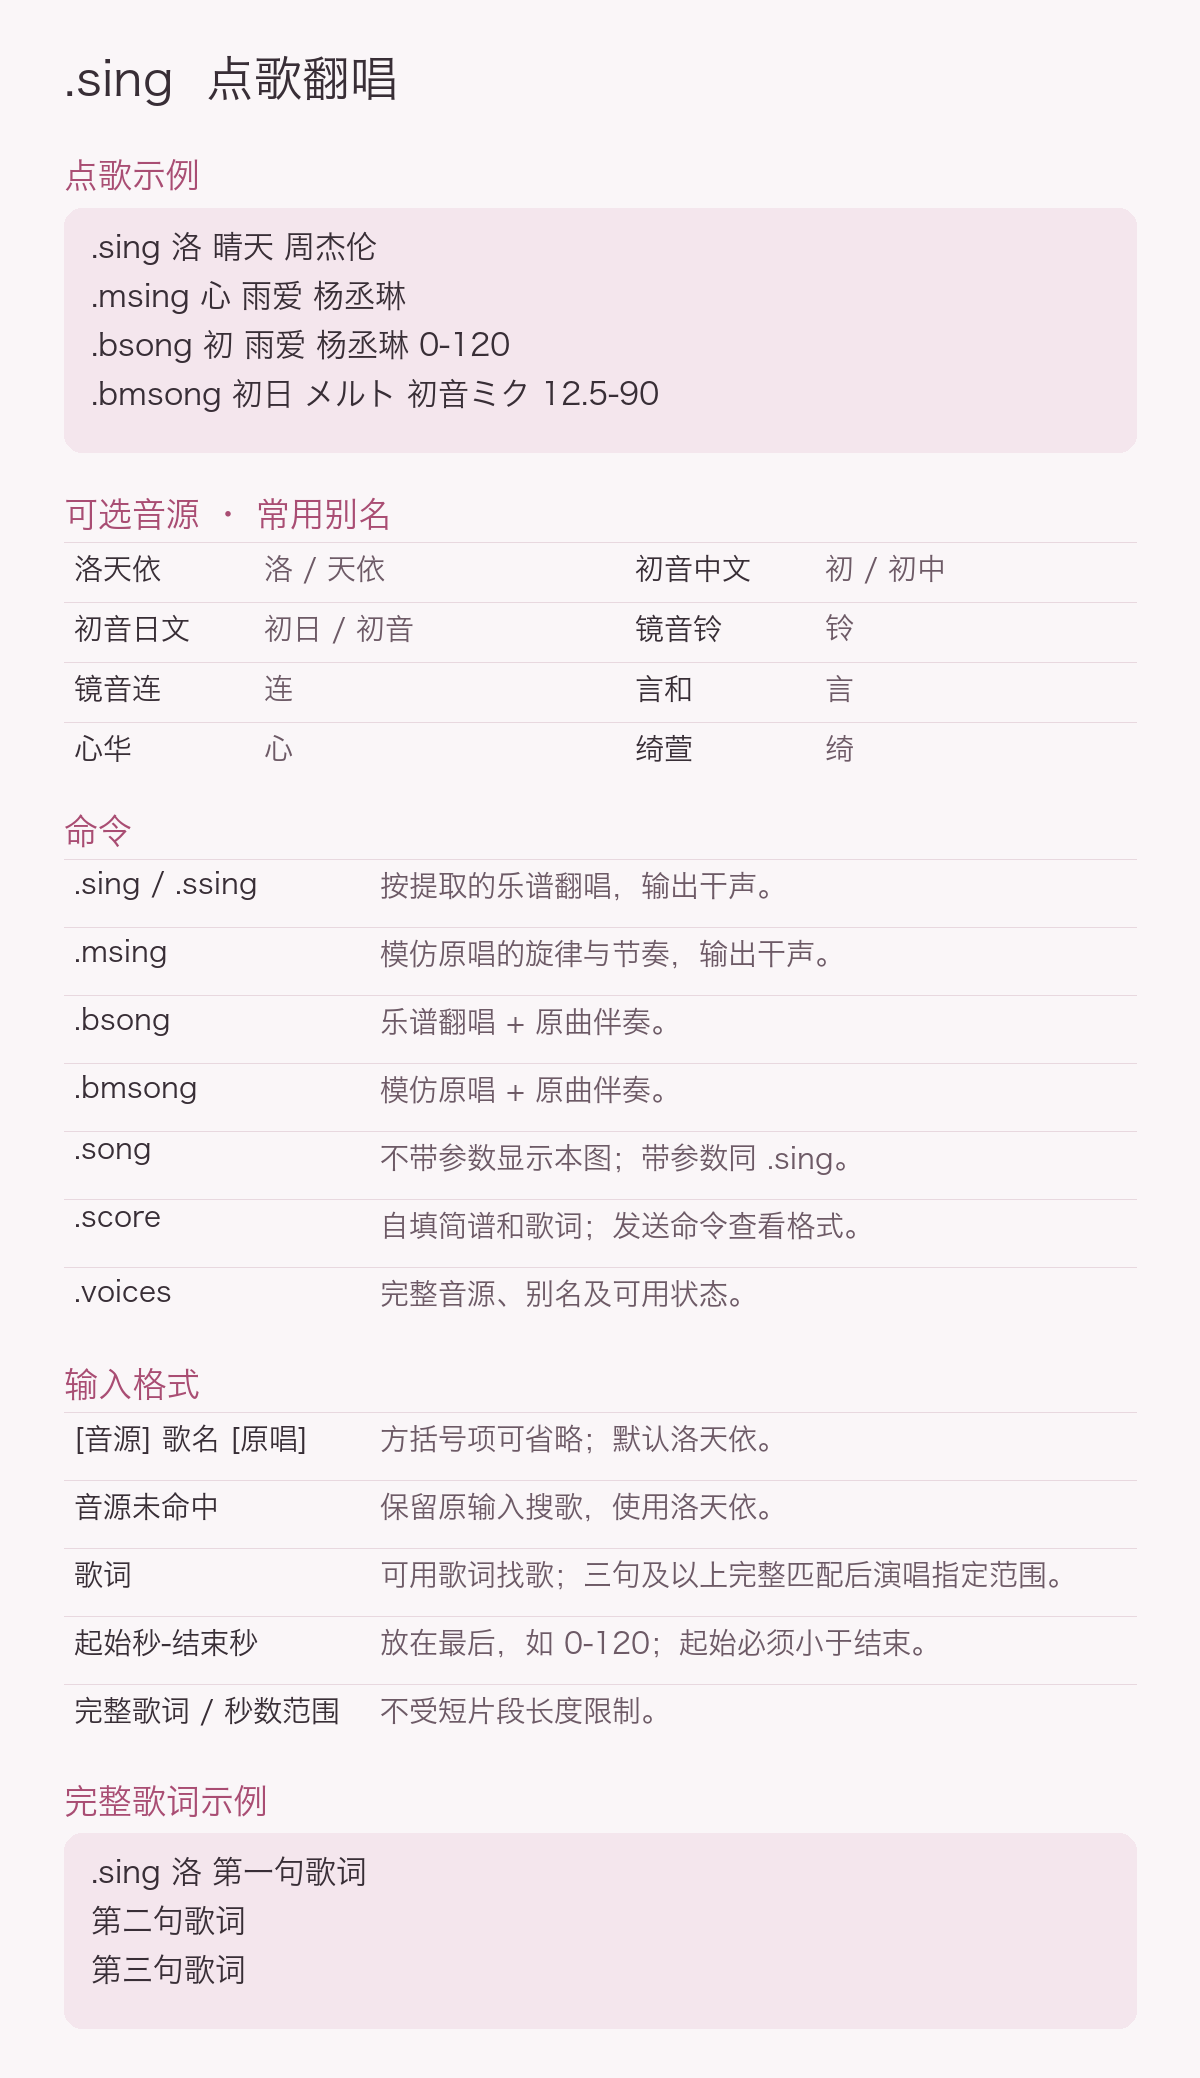
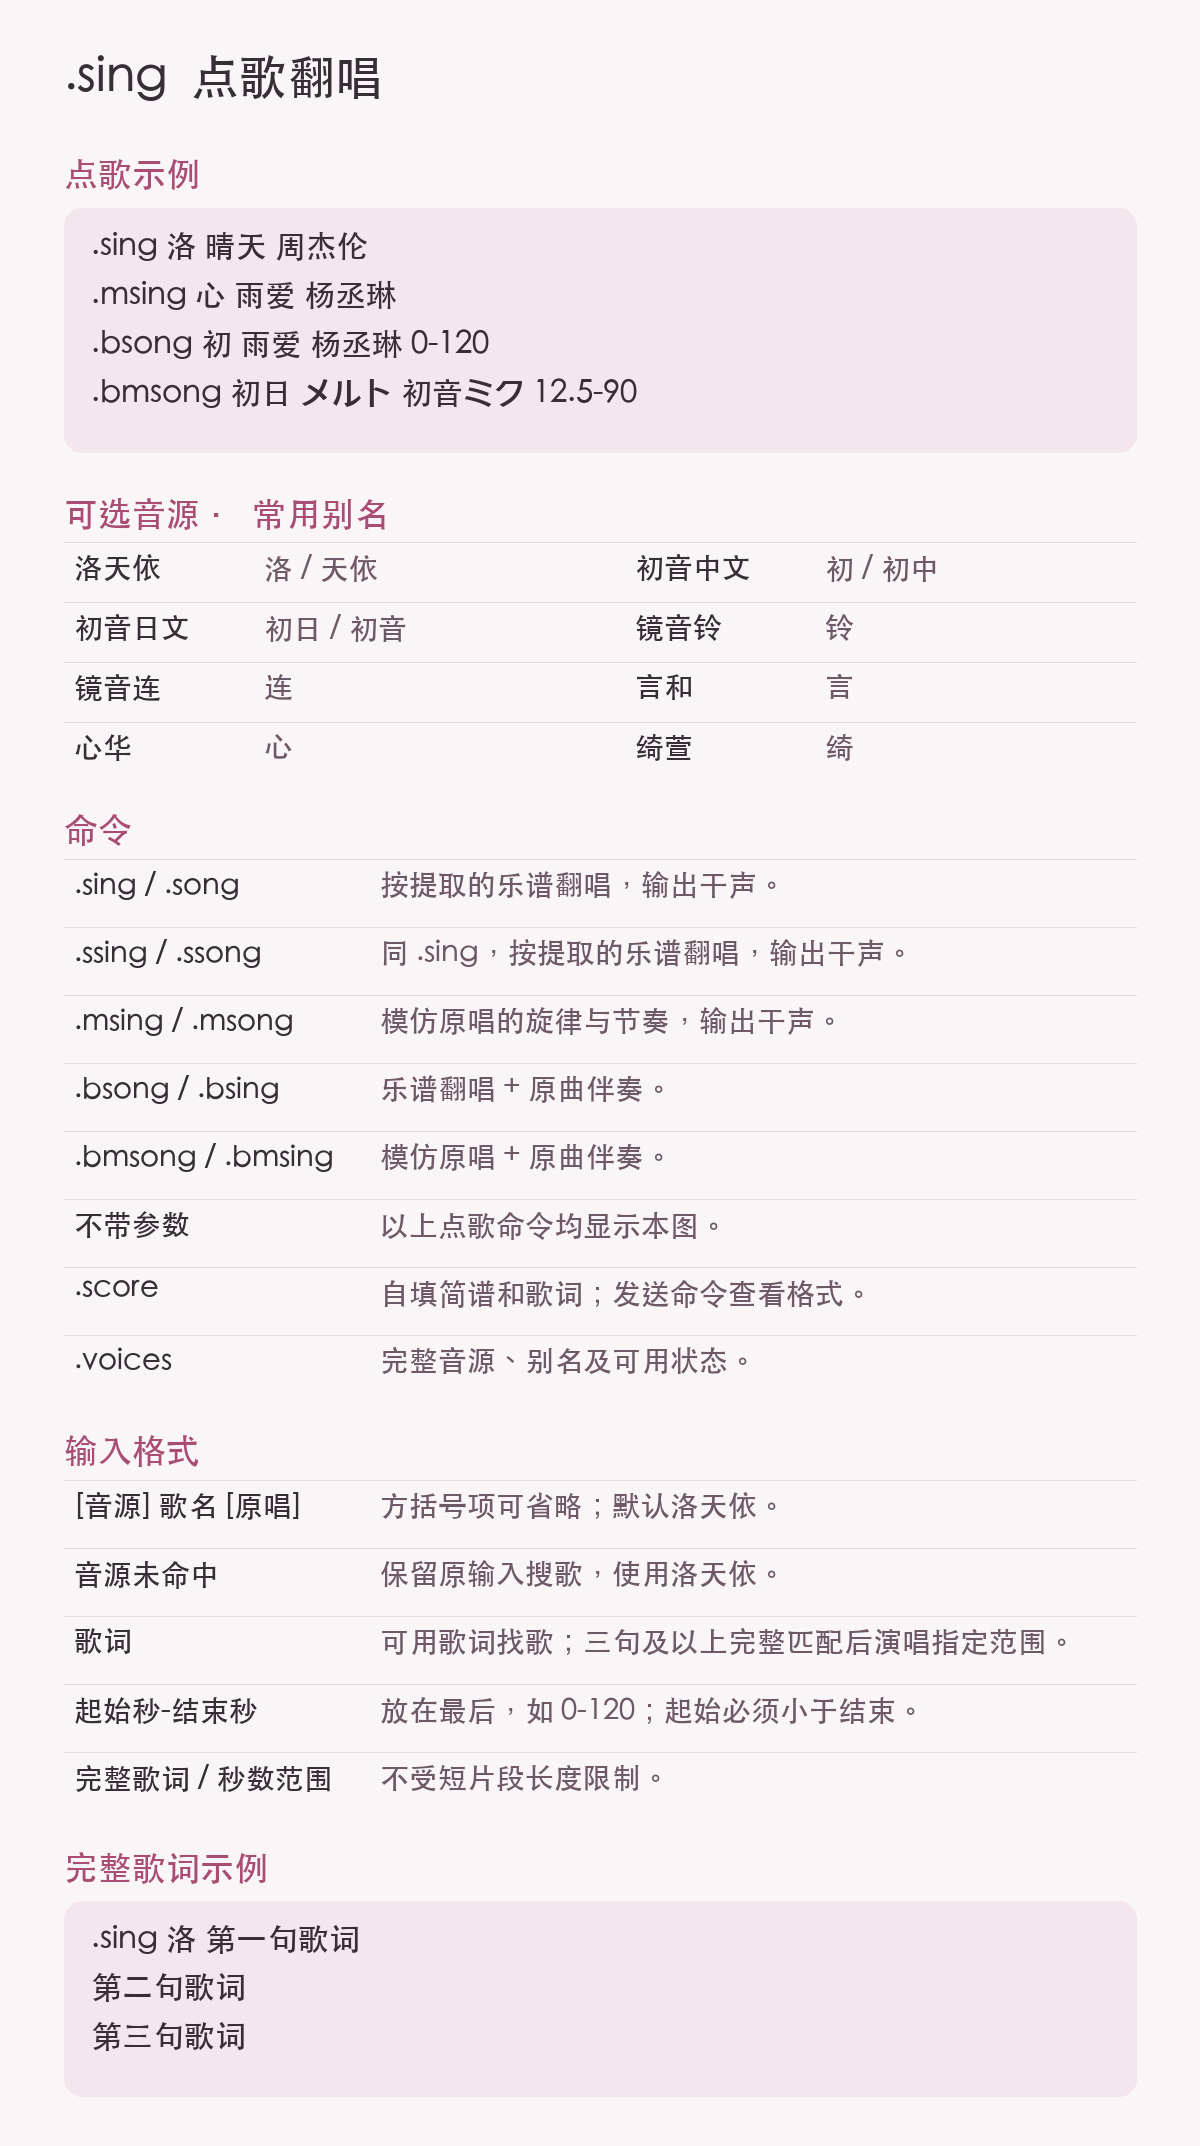
feat(sing): support matching song and sing command aliases

diff --git a/plugin/help/init.go b/plugin/help/init.go
@@ -32,6 +32,7 @@ const helpText = `【鸽子姬 帮助菜单】
 .sing / .ssing [音源] 歌名 [原唱] 或歌词 - score 翻唱（默认洛天依）
 .msing [音源] 歌名 [原唱] 或歌词 - mimic 翻唱（默认洛天依）
 .bsong / .bmsong [音源] 歌名或歌词 - 带原曲伴奏翻唱
+点歌命令的 sing / song 拼法互通（如 .bsing = .bsong、.bmsing = .bmsong）
 .voices - 查看音源和别名（洛 / 初 / 初日 / 心）；末尾可加 0-120 指定秒数范围
 
 @我 或直接聊天 - AI 对话`
@@ -43,7 +44,7 @@ func init() {
 				if abs, err := filepath.Abs(helpImagePath); err == nil {
 					if img, err := imageutil.LocalImageSegment(abs); err == nil {
 						ctx.SendChain(img)
-						ctx.SendChain(message.Text(".score - 自填简谱和歌词（发送命令查看示例）\n.song - 唱歌命令帮助（带参数同 .sing）\n.sing / .ssing [音源] 歌名 [原唱] 或歌词 - score 翻唱（默认洛天依）\n.msing [音源] 歌名 [原唱] 或歌词 - mimic 翻唱（默认洛天依）\n.bsong / .bmsong [音源] 歌名或歌词 - 带原曲伴奏翻唱\n.voices - 查看音源和别名（洛 / 初 / 初日 / 心）；末尾可加 0-120 指定秒数范围"))
+						ctx.SendChain(message.Text(".score - 自填简谱和歌词（发送命令查看示例）\n.song - 唱歌命令帮助（带参数同 .sing）\n.sing / .ssing [音源] 歌名 [原唱] 或歌词 - score 翻唱（默认洛天依）\n.msing [音源] 歌名 [原唱] 或歌词 - mimic 翻唱（默认洛天依）\n.bsong / .bmsong [音源] 歌名或歌词 - 带原曲伴奏翻唱\n点歌命令的 sing / song 拼法互通（如 .bsing = .bsong、.bmsing = .bmsong）\n.voices - 查看音源和别名（洛 / 初 / 初日 / 心）；末尾可加 0-120 指定秒数范围"))
 						return
 					}
 				}

diff --git a/plugin/sing/init.go b/plugin/sing/init.go
@@ -28,9 +28,18 @@ var pending sync.Map
 
 type destination struct{ selfID, groupID, userID int64 }
 
+// Both spellings share the same generation mode and accompaniment settings.
+var singCommands = map[string]string{
+	"sing": "sing", "song": "sing",
+	"ssing": "sing", "ssong": "sing",
+	"msing": "msing", "msong": "msing",
+	"bsing": "bsong", "bsong": "bsong",
+	"bmsing": "bmsong", "bmsong": "bmsong",
+}
+
 func init() {
 	zero.OnCommand("score", commandBoundary).SetPriority(30).SetBlock(true).Handle(handleScore)
-	for _, command := range []string{"sing", "msing", "ssing", "song", "bsong", "bmsong"} {
+	for command := range singCommands {
 		zero.OnCommand(command, commandBoundary).SetPriority(30).SetBlock(true).Handle(handleSing)
 	}
 	zero.OnCommand("voices", commandBoundary).SetPriority(30).SetBlock(true).Handle(func(ctx *zero.Ctx) {
@@ -65,7 +74,7 @@ func init() {
 
 func commandBoundary(ctx *zero.Ctx) bool {
 	command, _ := ctx.State["command"].(string)
-	if command != "sing" && command != "msing" && command != "ssing" && command != "voices" && command != "song" && command != "bsong" && command != "bmsong" && command != "score" {
+	if _, ok := singCommands[command]; !ok && command != "voices" && command != "score" {
 		return false
 	}
 	text := ctx.Event.Message[0].Data["text"]
@@ -79,6 +88,7 @@ func commandBoundary(ctx *zero.Ctx) bool {
 
 func handleSing(ctx *zero.Ctx) {
 	command, _ := ctx.State["command"].(string)
+	command = singCommands[command]
 	mode := "score"
 	if command == "msing" || command == "bmsong" {
 		mode = "mimic"

diff --git a/plugin/sing/init_test.go b/plugin/sing/init_test.go
@@ -54,10 +54,19 @@ func receive(t *testing.T, c *caller) delivery {
 }
 
 func TestAsynchronousDelivery(t *testing.T) {
-	for _, tc := range []struct{ command, mode string }{{"sing", "score"}, {"msing", "mimic"}, {"ssing", "score"}, {"song", "score"}, {"bsong", "score"}, {"bmsong", "mimic"}} {
+	for _, tc := range []struct {
+		command, mode string
+		mixed         bool
+	}{
+		{"sing", "score", false}, {"song", "score", false},
+		{"ssing", "score", false}, {"ssong", "score", false},
+		{"msing", "mimic", false}, {"msong", "mimic", false},
+		{"bsing", "score", true}, {"bsong", "score", true},
+		{"bmsing", "mimic", true}, {"bmsong", "mimic", true},
+	} {
 		for _, groupID := range []int64{123, 0} {
 			t.Run(tc.command+fmt.Sprint(groupID), func(t *testing.T) {
-				mixed := tc.command == "bsong" || tc.command == "bmsong"
+				mixed := tc.mixed
 				kind := tc.mode
 				if mixed {
 					kind += "_mix"
@@ -191,7 +200,7 @@ func TestAsynchronousDelivery(t *testing.T) {
 }
 
 func TestCommandBoundary(t *testing.T) {
-	for _, command := range []string{"sing", "msing", "ssing", "song", "voices", "bsong", "bmsong"} {
+	for _, command := range []string{"sing", "song", "ssing", "ssong", "msing", "msong", "bsing", "bsong", "bmsing", "bmsong", "voices", "score"} {
 		for _, tc := range []struct {
 			suffix string
 			want   bool

diff --git a/scripts/render-help.py b/scripts/render-help.py
@@ -126,11 +126,12 @@ def draw_sing():
     draw_voices()
     section('命令')
     for symbol, meaning in [
-        ('.sing / .ssing', '按提取的乐谱翻唱，输出干声。'),
-        ('.msing', '模仿原唱的旋律与节奏，输出干声。'),
-        ('.bsong', '乐谱翻唱 + 原曲伴奏。'),
-        ('.bmsong', '模仿原唱 + 原曲伴奏。'),
-        ('.song', '不带参数显示本图；带参数同 .sing。'),
+        ('.sing / .song', '按提取的乐谱翻唱，输出干声。'),
+        ('.ssing / .ssong', '同 .sing，按提取的乐谱翻唱，输出干声。'),
+        ('.msing / .msong', '模仿原唱的旋律与节奏，输出干声。'),
+        ('.bsong / .bsing', '乐谱翻唱 + 原曲伴奏。'),
+        ('.bmsong / .bmsing', '模仿原唱 + 原曲伴奏。'),
+        ('不带参数', '以上点歌命令均显示本图。'),
         ('.score', '自填简谱和歌词；发送命令查看格式。'),
         ('.voices', '完整音源、别名及可用状态。'),
     ]:

diff --git a/plugin/sing/arguments_test.go b/plugin/sing/arguments_test.go
@@ -39,7 +39,7 @@ func TestTimeRange(t *testing.T) {
 }
 
 func TestSongWithoutArgumentsShowsHelp(t *testing.T) {
-	for _, command := range []string{"sing", "ssing", "msing", "song", "bsong", "bmsong"} {
+	for _, command := range []string{"sing", "song", "ssing", "ssong", "msing", "msong", "bsing", "bsong", "bmsing", "bmsong"} {
 		c := &caller{sent: make(chan delivery, 2)}
 		zero.APICallers.Store(987653, c)
 		defer zero.APICallers.Delete(987653)

diff --git a/README.md b/README.md
@@ -50,7 +50,7 @@ web/      ──▶ React + Rsbuild + shadcn/ui 风格管理界面
 
 ### 点歌翻唱
 
-使用 `.sing [音源] 歌名 [原唱] 或歌词`，`.sing` / `.ssing` 为 score，`.msing` 为 mimic。默认音源为洛天依。音源名和别名来自 API 的 `/voices`，缓存五分钟；用 `.voices` 查看完整名单。
+使用 `.sing [音源] 歌名 [原唱] 或歌词`，`.sing` / `.ssing` 为 score，`.msing` 为 mimic。所有点歌命令的 `sing` / `song` 拼法互通：`.sing` / `.song`、`.ssing` / `.ssong`、`.msing` / `.msong`、`.bsing` / `.bsong`、`.bmsing` / `.bmsong`。默认音源为洛天依。音源名和别名来自 API 的 `/voices`，缓存五分钟；用 `.voices` 查看完整名单。
 
 ```text
 .sing 洛 雨爱 杨丞琳
@@ -64,7 +64,7 @@ web/      ──▶ React + Rsbuild + shadcn/ui 风格管理界面
 
 日语初音使用「初日」，不设单字别名；其余音源的单字别名：绮萱「绮」、中文初音「初」、镜音铃「铃」、镜音连「连」、洛天依「洛」、言和「言」、心华「心」。支持多个别名，例如“洛天依／天依／洛”“初音中文／中文初音／初中／初”“心华／心”。仅在参数开头匹配完整名称或别名，名称后必须有空白（英文忽略大小写）。未命中时保留完整查询，使用洛天依；“心愿”“洛天依的消失”不会被拆开。名称已命中但音源不可用时明确报错，不切换音源。只输入音源名会提示补充歌名或歌词。
 
-`.bsong` 是带伴奏的 score 版本，`.bmsong` 是带伴奏的 mimic 版本。两者支持相同的音源别名、完整歌词和末尾秒数范围，不带参数时显示唱歌帮助。例如 `.bsong 洛 雨爱 杨丞琳`、`.bmsong 初 晴天 周杰伦 0-120`。机器人提交 `with_accompaniment=true`，只发送 `score_mix` / `mimic_mix` 及对应分段；若混音不可用则报错，不改发干声。服务端从原曲分离伴奏，保持与合成干声同一时间轴，可能存在少量原唱残留。
+`.bsong` / `.bsing` 是带伴奏的 score 版本，`.bmsong` / `.bmsing` 是带伴奏的 mimic 版本。两者支持相同的音源别名、完整歌词和末尾秒数范围，不带参数时显示唱歌帮助。例如 `.bsong 洛 雨爱 杨丞琳`、`.bmsong 初 晴天 周杰伦 0-120`。机器人提交 `with_accompaniment=true`，只发送 `score_mix` / `mimic_mix` 及对应分段；若混音不可用则报错，不改发干声。服务端从原曲分离伴奏，保持与合成干声同一时间轴，可能存在少量原唱残留。
 
 不带参数的 `.song` 显示唱歌命令帮助列表；带参数同 `.sing`。所有唱歌命令末尾可加独立的秒数范围，例如 `.sing 初 雨爱 杨丞琳 0-120`、`.msing 洛 歌名 12.5-90`。起止秒数必须满足 `0 ≤ 起始 < 结束`，优先于自动选段，不受 32/40 秒上限限制。保留范围内完整歌词行，裁剪加少量首尾缓冲并受歌曲实际时长约束。未提供范围时保持自动选段。
 
